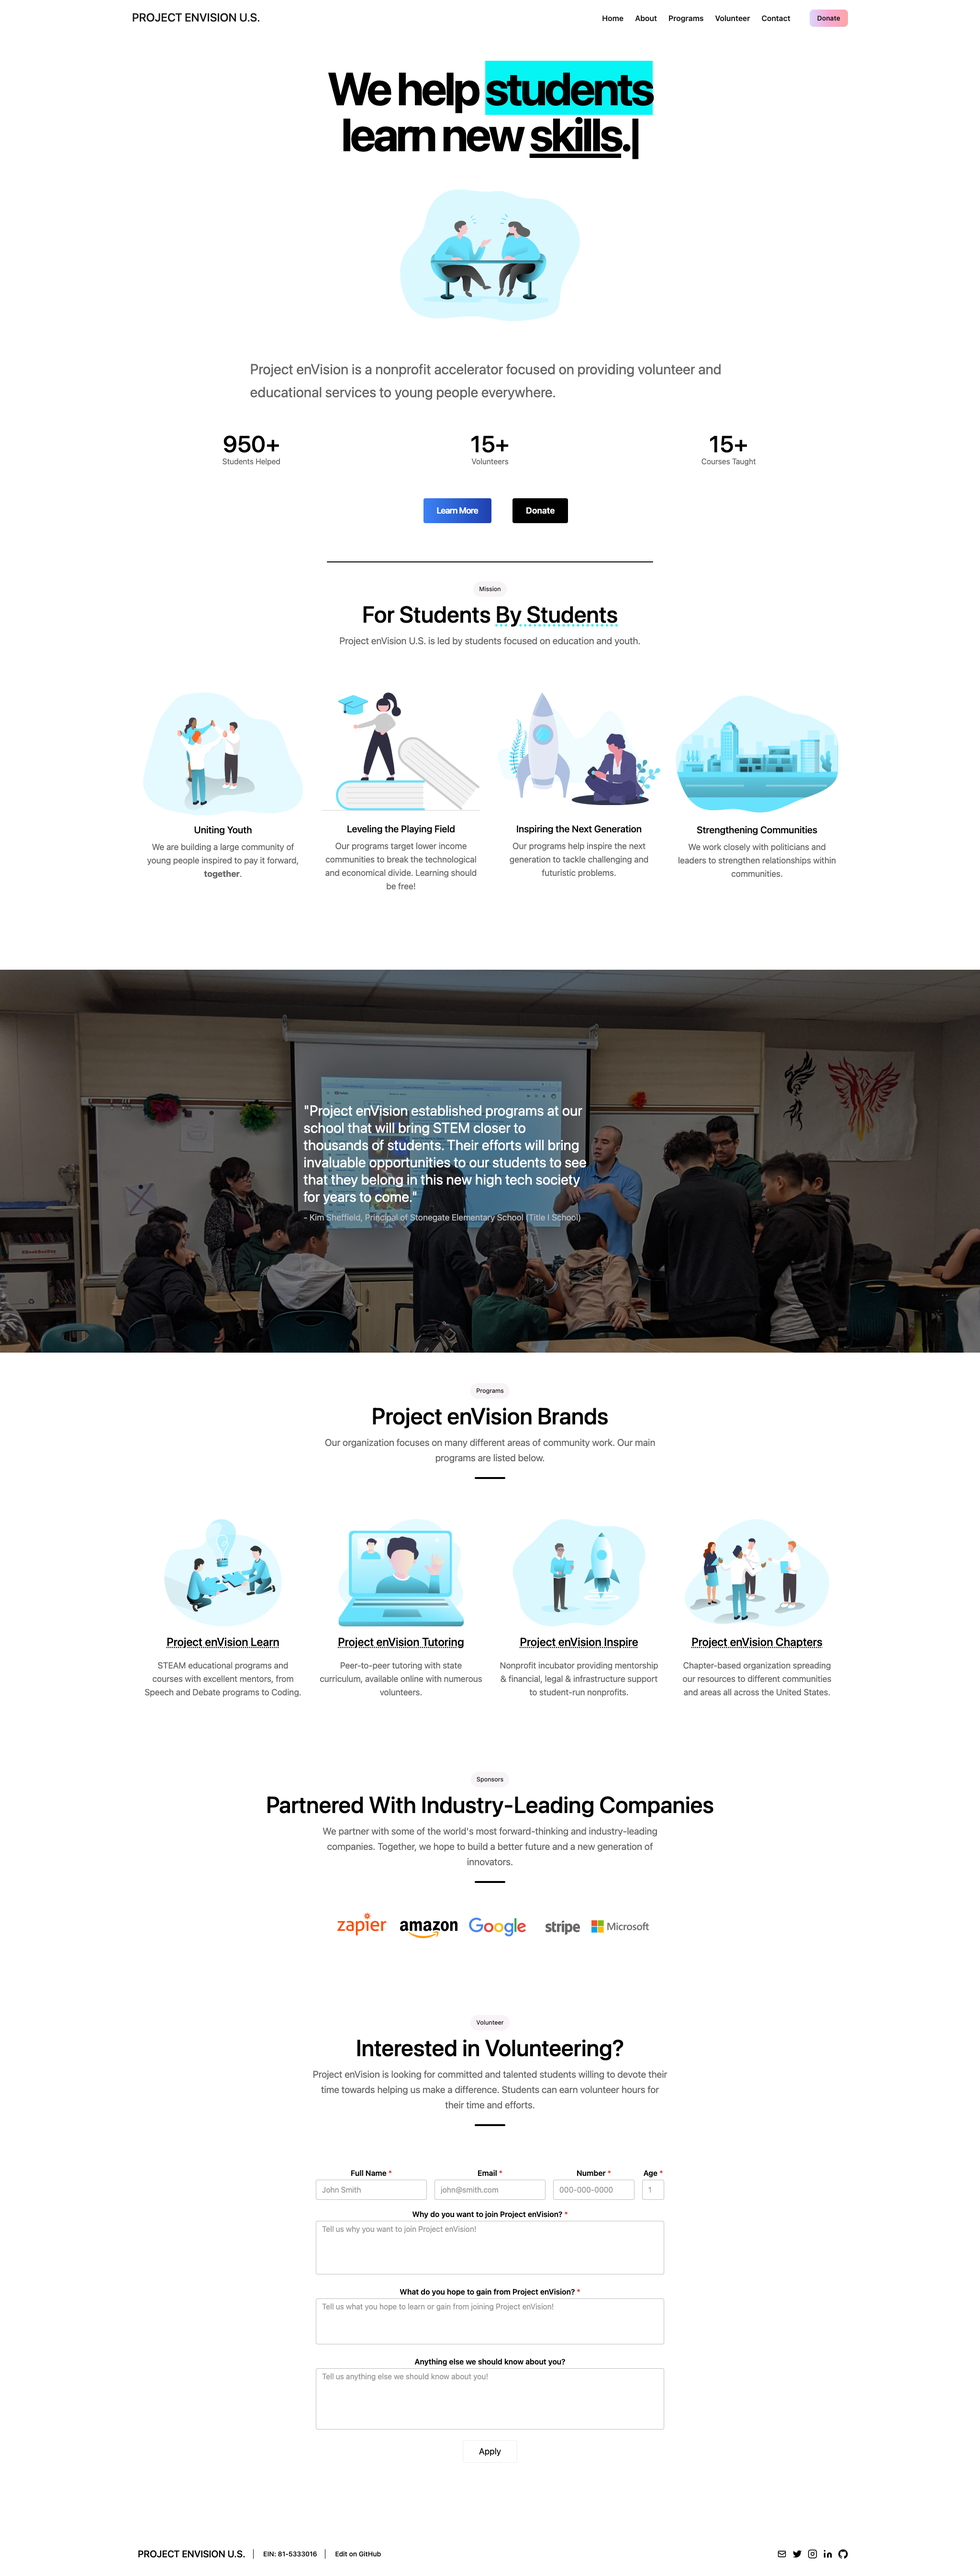
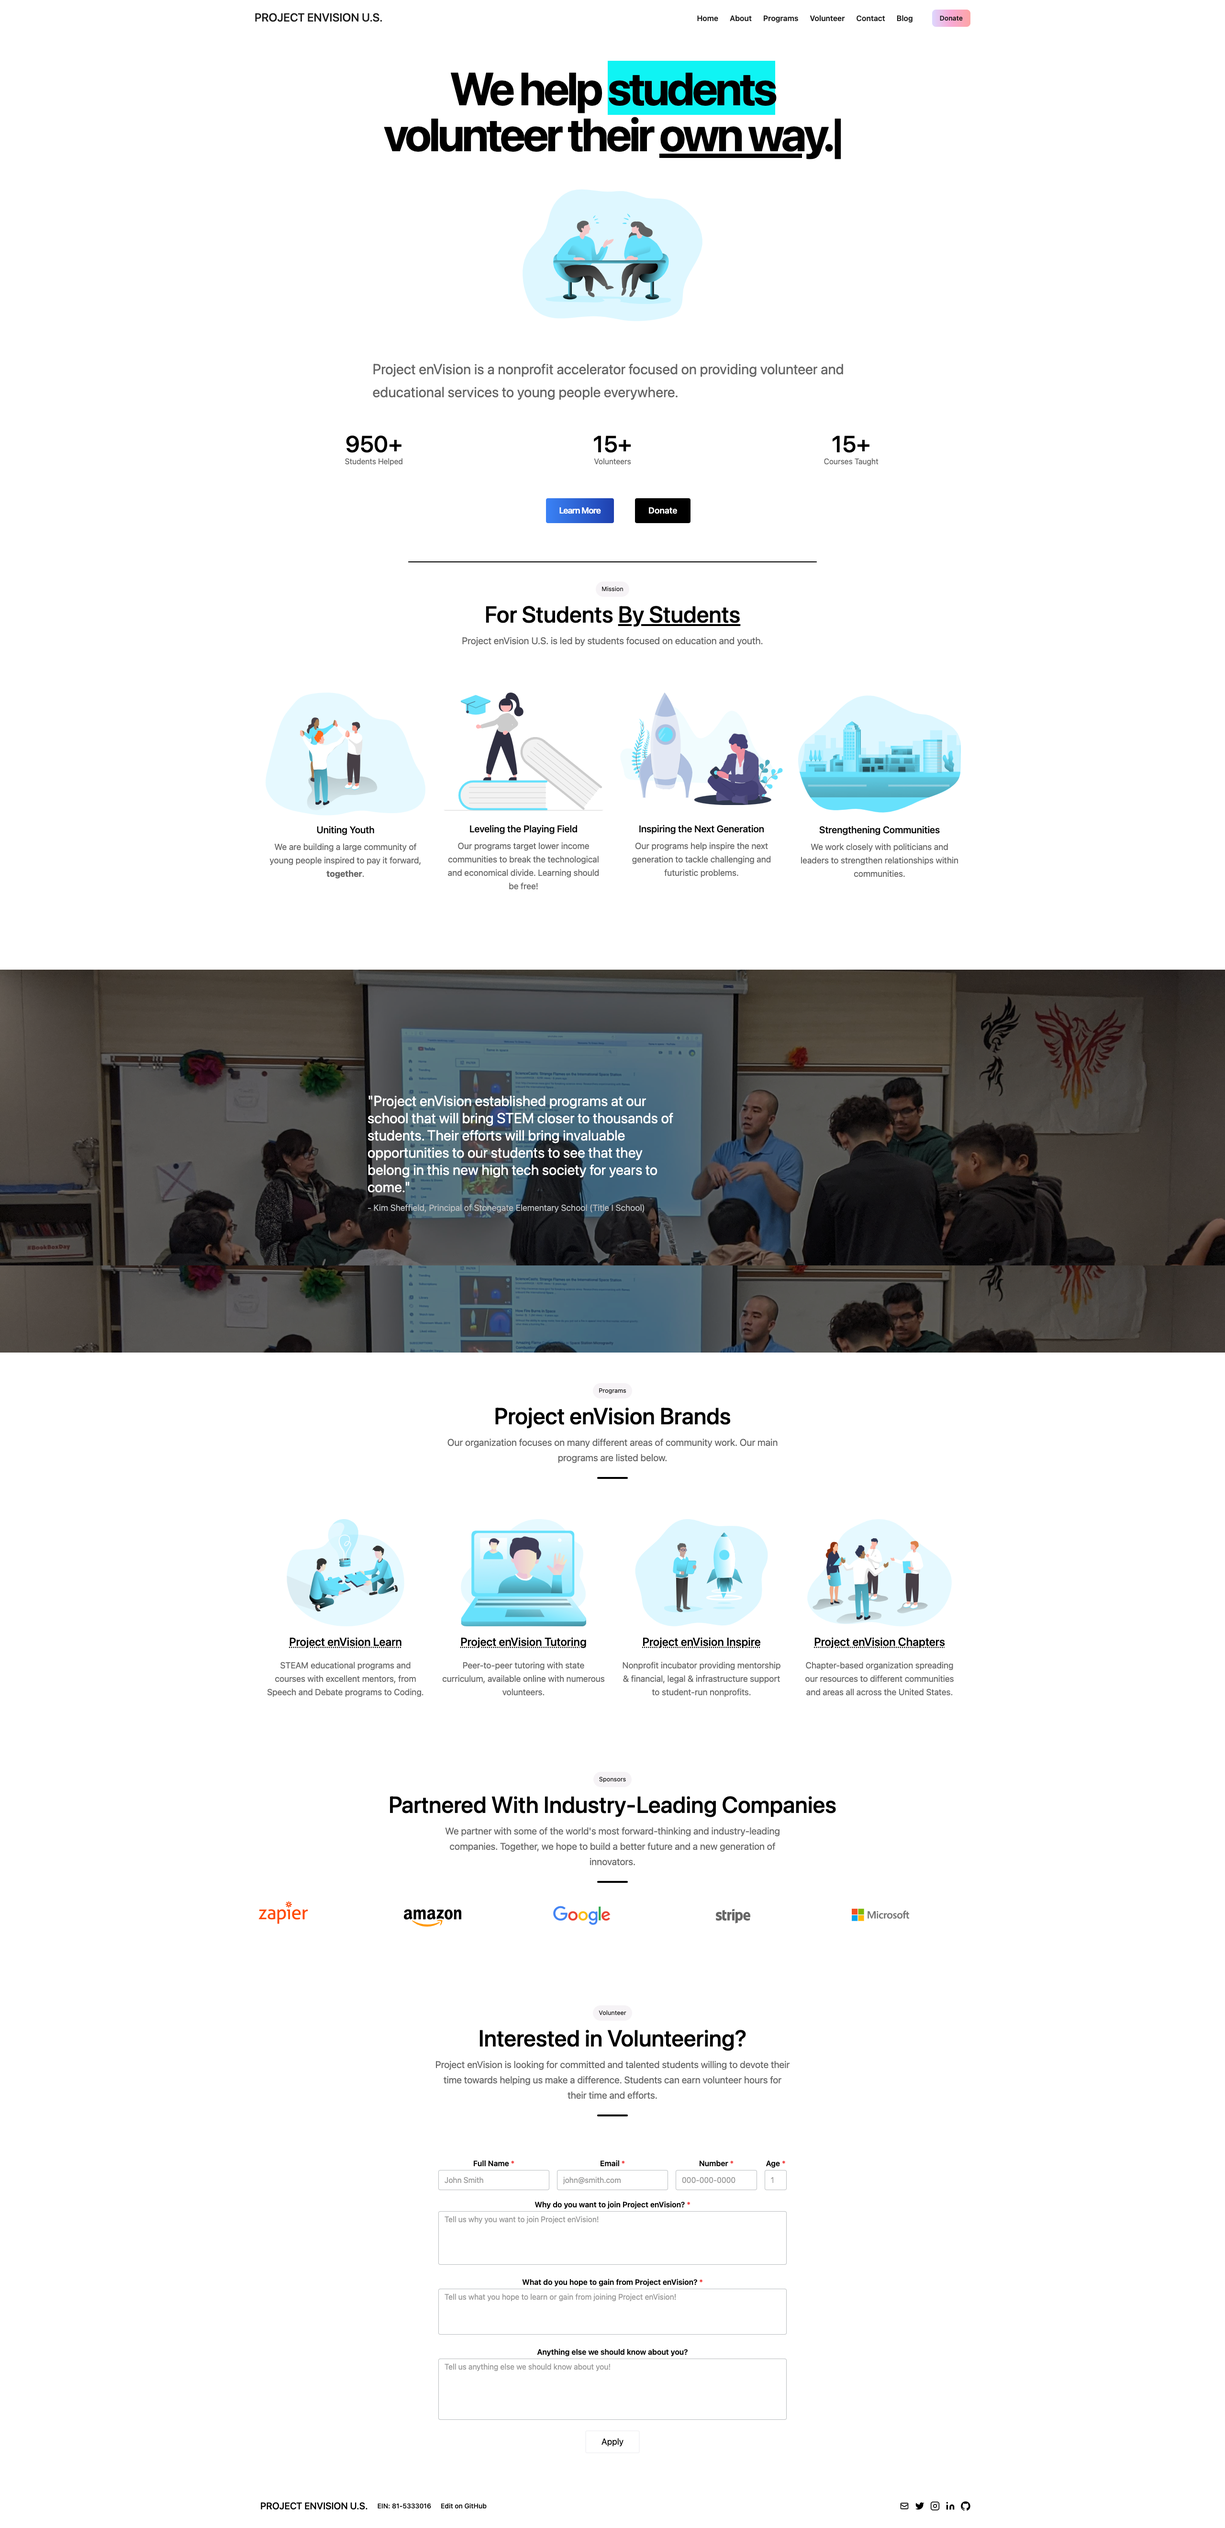
[add] vercel sponsor

diff --git a/pages/contact.js b/pages/contact.js
@@ -1,8 +1,8 @@
-import Head from "next/head";
-import Header from "../components/Header";
-import Footer from "../components/Footer";
-import React from "react";
-import { NextSeo } from "next-seo";
+import Head from 'next/head';
+import Header from '../components/Header';
+import Footer from '../components/Footer';
+import React from 'react';
+import { NextSeo } from 'next-seo';
 
 export default function Contact() {
   return (
@@ -12,11 +12,11 @@ export default function Contact() {
         description="Project enVision U.S. is a 501(c)-3 nonprofit organization dedicated to providing educational services to students everywhere."
         canonical="https://envisionnew.org/contact/"
         openGraph={{
-          url: "https://envisionnew.org/contact/",
-          title: "Project enVision U.S.",
+          url: 'https://envisionnew.org/contact/',
+          title: 'Project enVision U.S.',
           description:
-            "Project enVision U.S. is a 501(c)-3 nonprofit organization dedicated to providing educational services to students everywhere.",
-          site_name: "Project enVision U.S.",
+            'Project enVision U.S. is a 501(c)-3 nonprofit organization dedicated to providing educational services to students everywhere.',
+          site_name: 'Project enVision U.S.'
         }}
       />
       <Head>
@@ -113,7 +113,7 @@ export default function Contact() {
           </div>
         </div>
       </section>
-      <br></br>
+      <br />
       <Footer link="https://github.com/envisionnew/envisionnew.org/edit/main/pages/contact.js" />
     </div>
   );

diff --git a/components/Footer.js b/components/Footer.js
@@ -1,4 +1,4 @@
-import styled from "styled-components";
+import styled from 'styled-components';
 
 const Border = styled.span`
   border-left: 0.1rem solid black;
@@ -17,7 +17,9 @@ export default function Footer({ link }) {
           className="flex items-center justify-center font-medium title-font md:justify-start"
           href="/"
         >
-          <span className="ml-3 text-xl">PROJECT ENVISION U.S.</span>
+          <span className="ml-0 text-xl md:ml-3 lg:ml-3">
+            PROJECT ENVISION U.S.
+          </span>
         </a>
         <Border />
         <p className="flex items-center justify-center ml-5 text-sm font-medium title-font md:justify-start">
@@ -28,7 +30,17 @@ export default function Footer({ link }) {
           className="flex items-center justify-center font-medium title-font md:justify-start"
           href={link}
         >
-          <span className="ml-5 text-sm">Edit on GitHub</span>
+          <span className="ml-0 text-sm md:ml-5 lg:ml-5">Edit on GitHub</span>
+        </a>
+        <Border />
+        <a
+          className="flex items-center justify-center font-medium title-font md:justify-start"
+          href="http://vercel.com/?utm_source=envision&utm_campaign=oss"
+        >
+          <img
+            className="h-8 mb-2 ml-0 md:mb-0 lg:mb-0 md:ml-5 lg:ml-5"
+            src="/images/powered-by-vercel.svg"
+          ></img>
         </a>
         <span className="inline-flex justify-center mt-4 sm:ml-auto sm:mt-0 sm:justify-start">
           <a aria-label="mail" href="mailto:support@envisionnew.org">

diff --git a/README.md b/README.md
@@ -10,7 +10,7 @@ This is the current deployment of Project enVision's website located at [https:/
 
 ## About Project enVision U.S.
 
-Project enVision is a 501(c)(3) non-profit organization dedicated to the community. By creating relationships with students, schools, and local politicians, through different programs, we envision a community where learning is *free* and *accessible*. Our mission is to build a connected community by facilitating learning, while targetting accessibility and bonding. Our volunteers are commited to this mission and strengthening our community, together.
+Project enVision is a 501(c)(3) non-profit organization dedicated to the community. By creating relationships with students, schools, and local politicians, through different programs, we envision a community where learning is _free_ and _accessible_. Our mission is to build a connected community by facilitating learning, while targetting accessibility and bonding. Our volunteers are commited to this mission and strengthening our community, together.
 
 ## Reproduction
 
@@ -45,3 +45,6 @@ Contact - [info@envisionnew.org](mailto:info@envisionnew.org)
 
 Contributions are welcome! Please open a PR/Issue if you have any edits/suggestions for changes.
 
+---
+
+<img src="./screenshots/powered-by-vercel.svg" />
